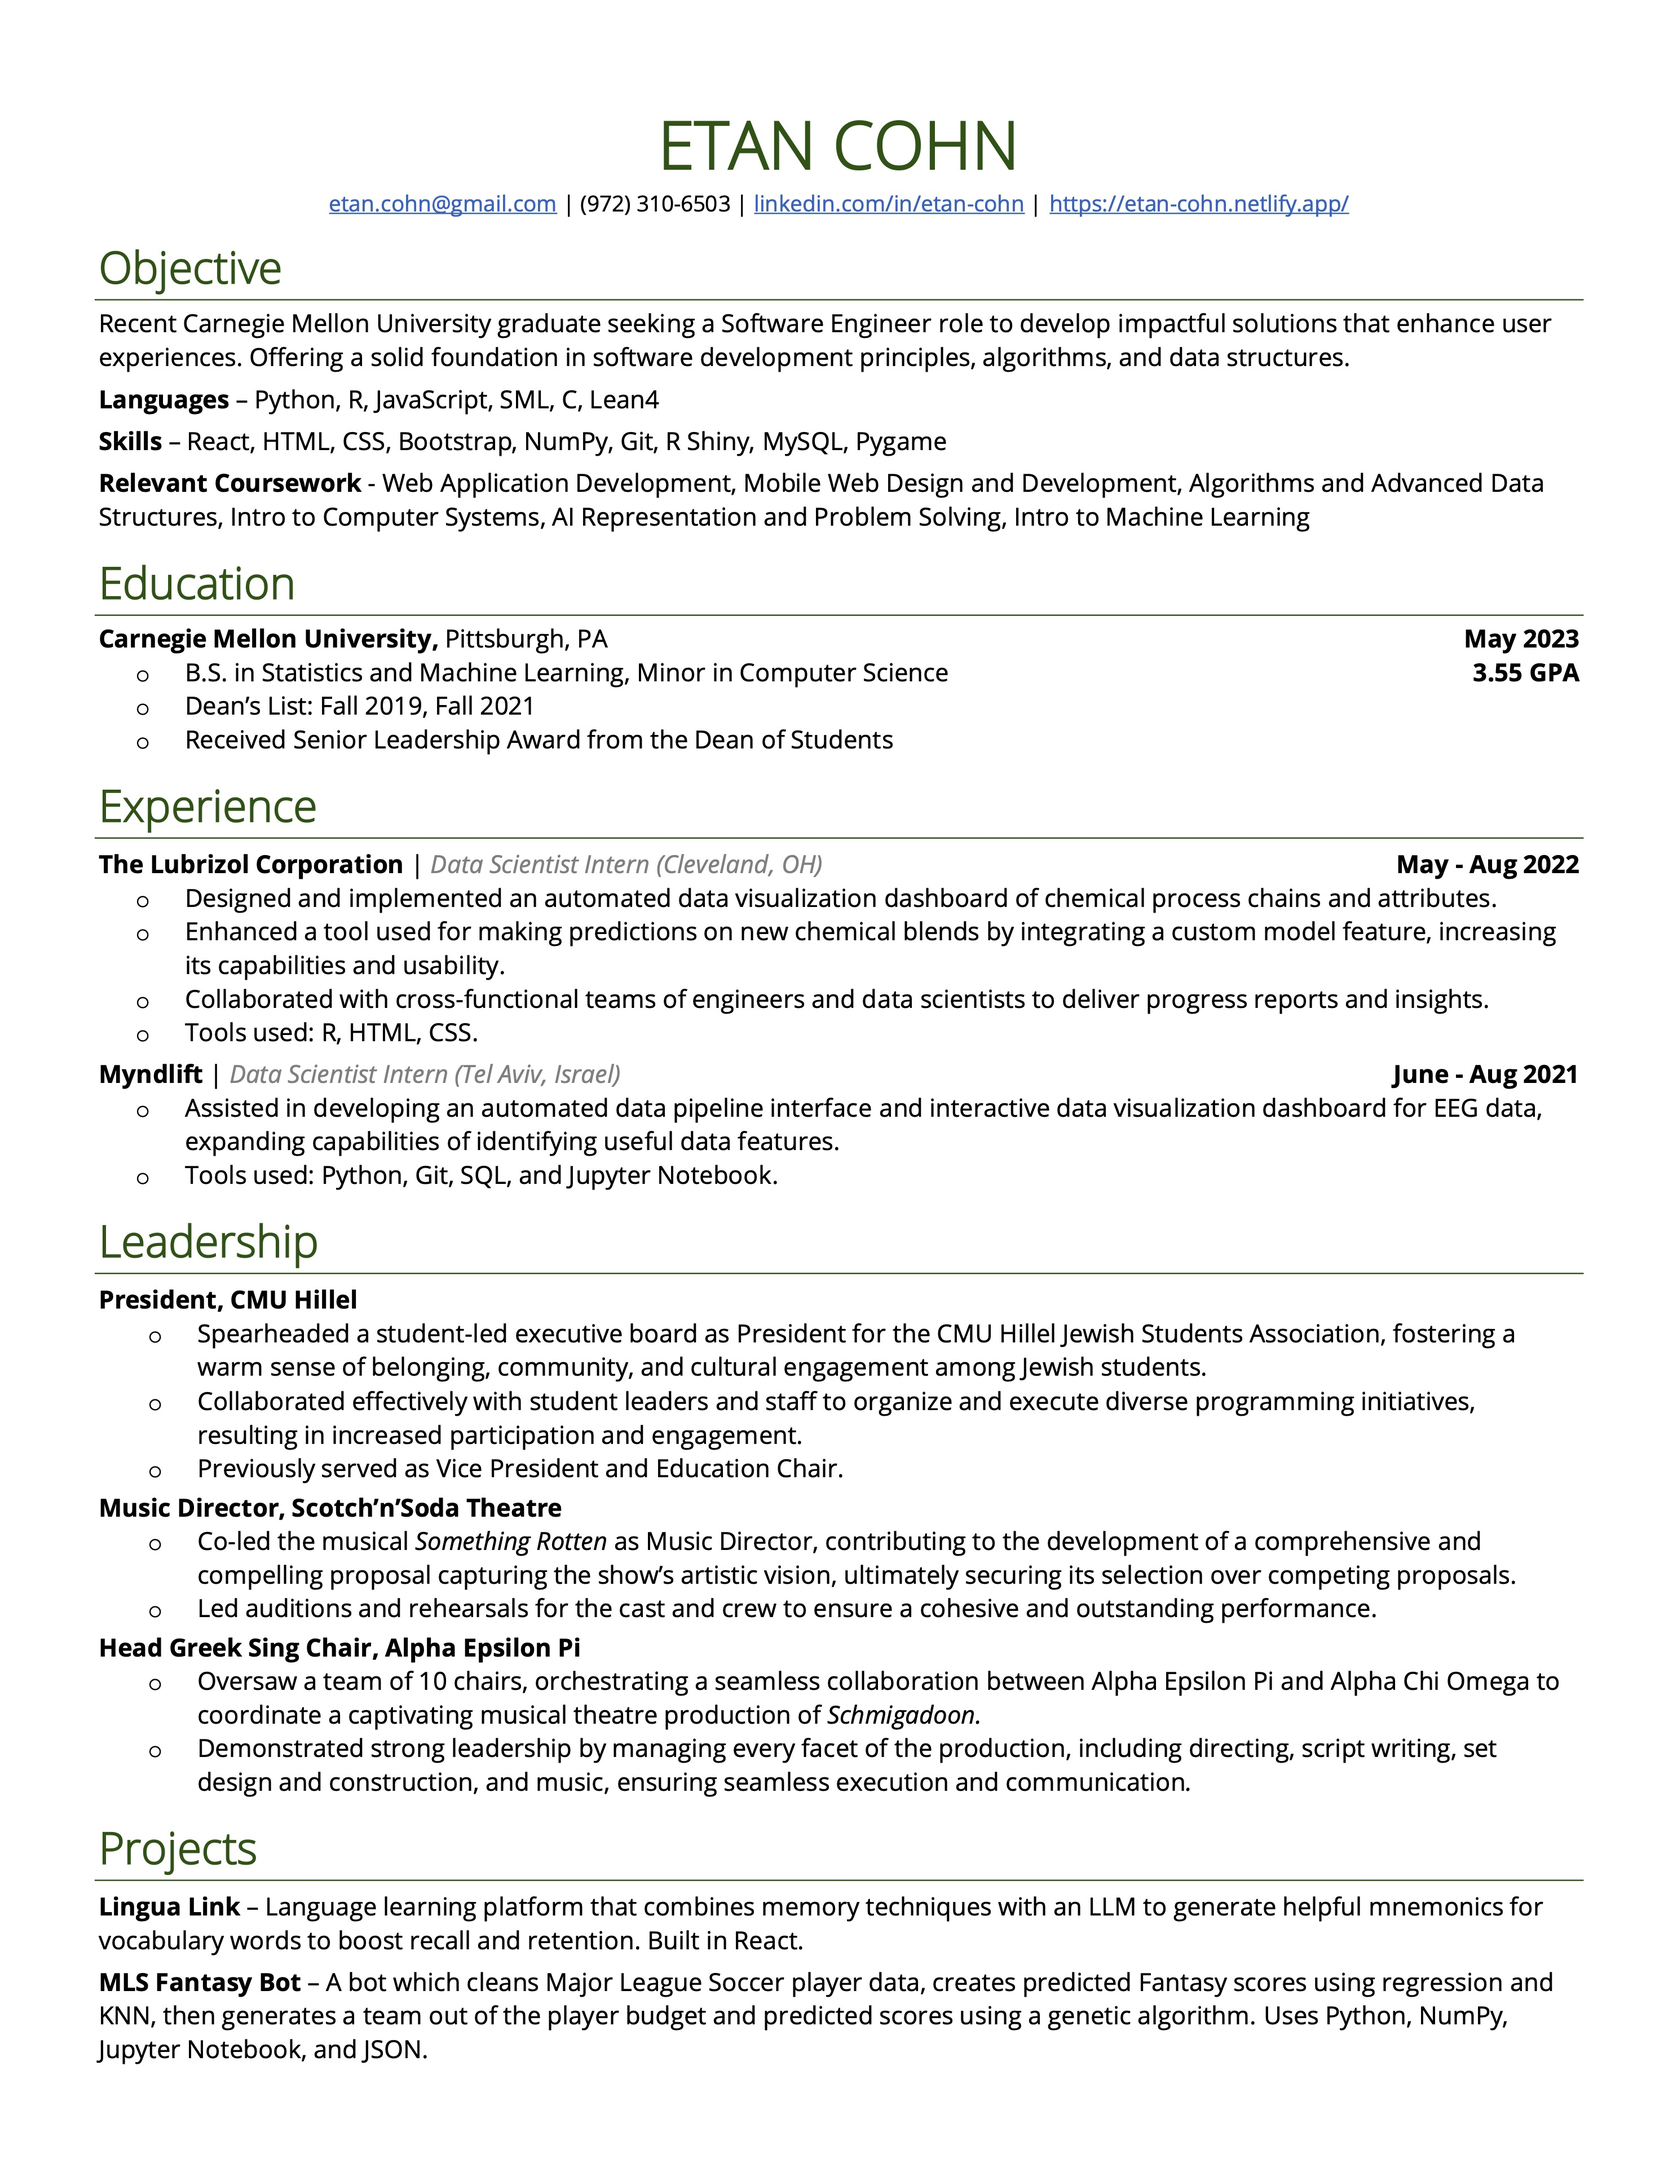
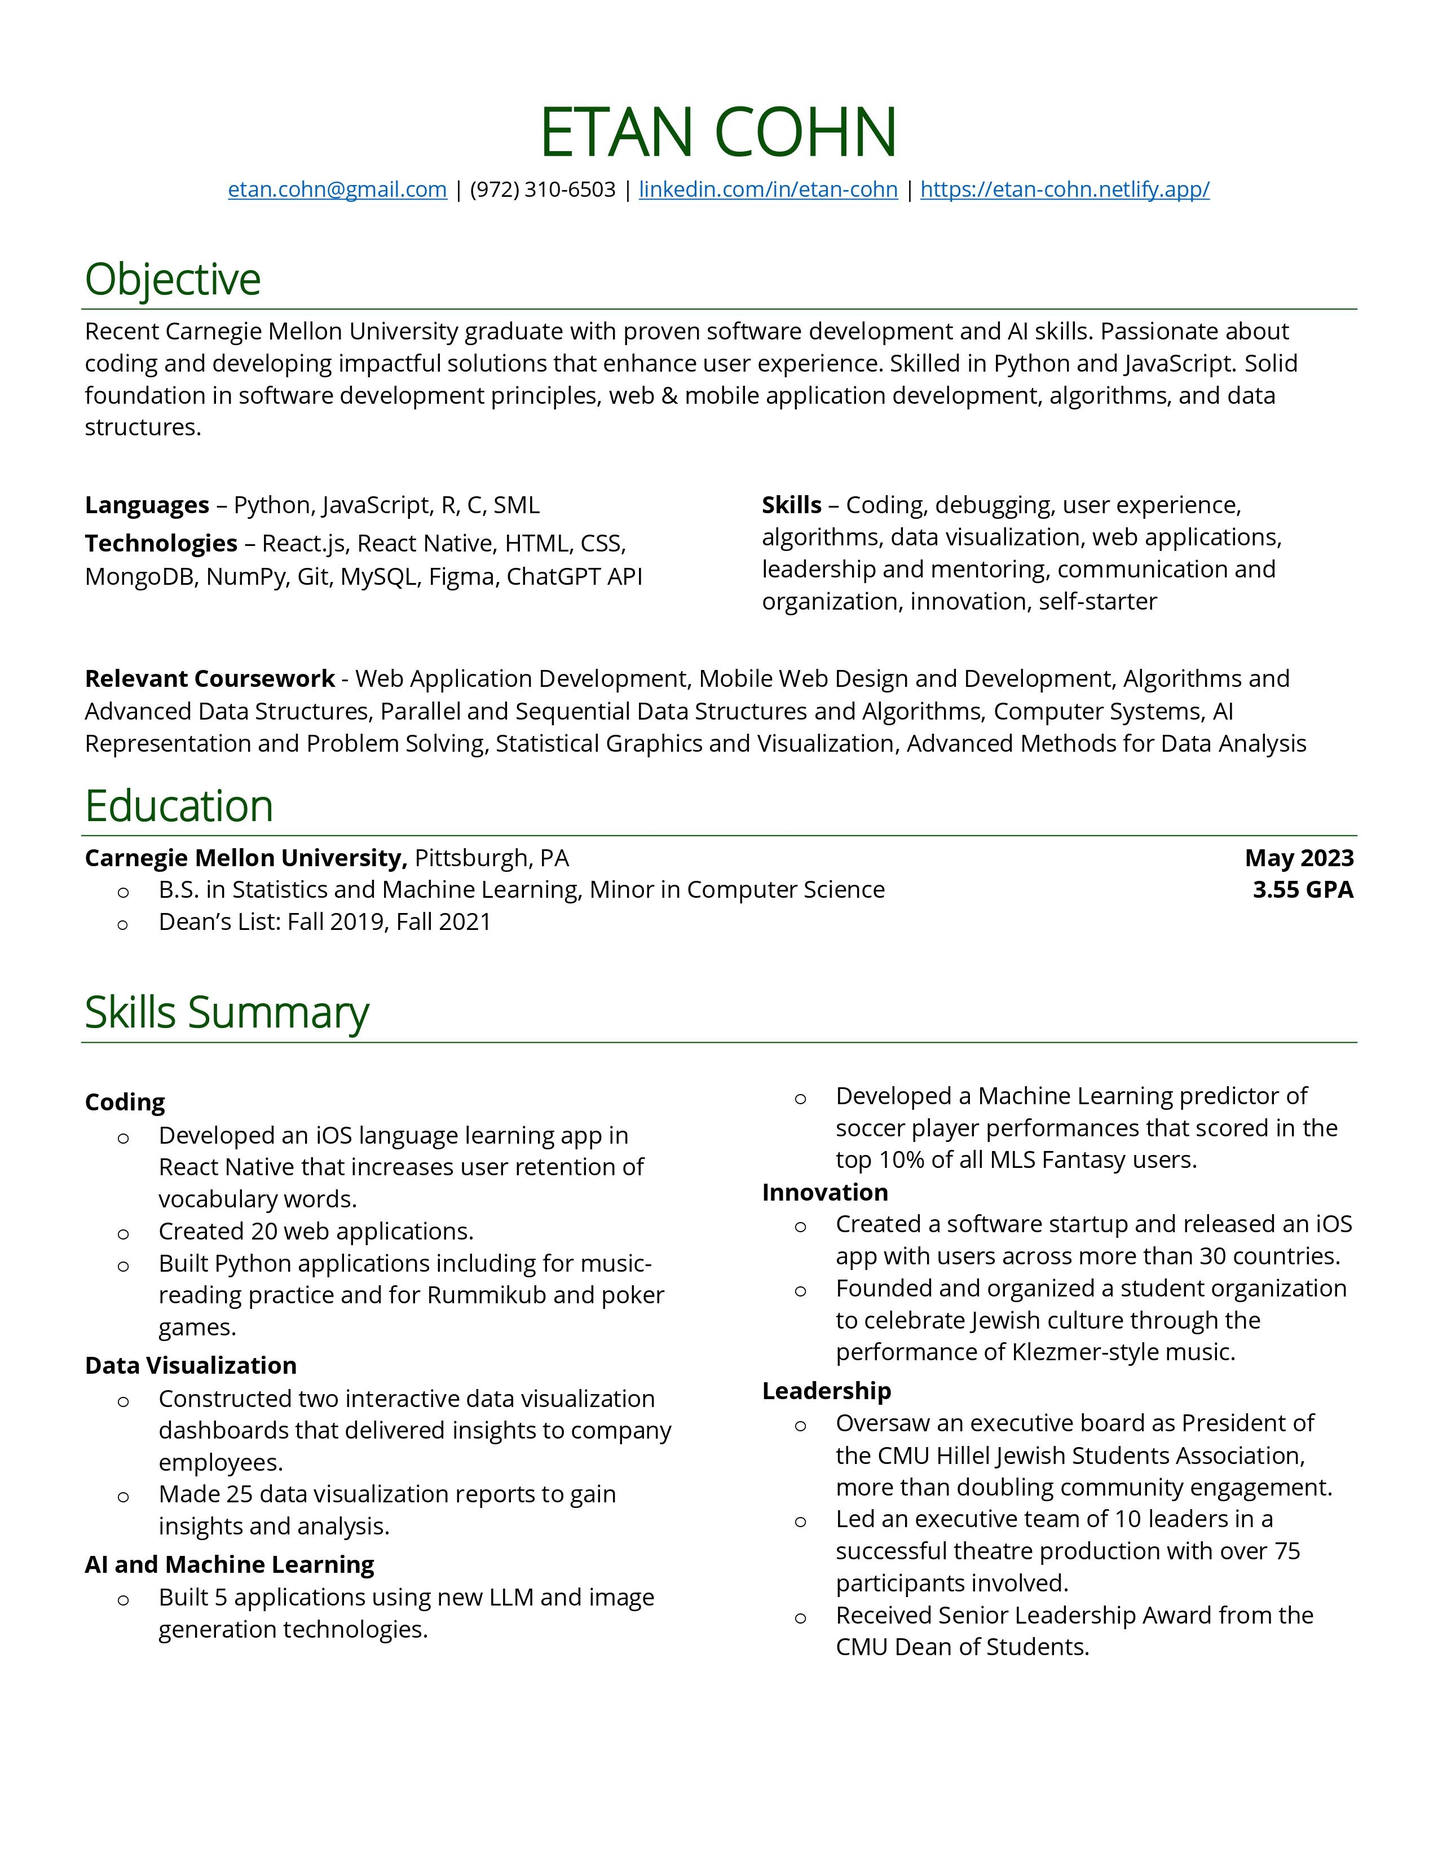
added music resume

Changed region(s): [[0.062, 0.0312, 0.9604, 0.9676]]

diff --git a/src/main.jsx b/src/main.jsx
@@ -11,6 +11,7 @@ import ProjectsPage from './pages/ProjectsPage/ProjectsPage.jsx'
 import SlangTranslator from './pages/Projects/SlangTranslator/SlangTranslator.jsx'
 import EmojiGenerator from './pages/Projects/EmojiGenerator/EmojiGenerator.jsx'
 import LinguaLink from './pages/Projects/LinguaLink/LinguaLink.jsx'
+import MusicResume from './pages/MusicResume/MusicResume.jsx'
 
 const router = createBrowserRouter([
   {
@@ -33,6 +34,10 @@ const router = createBrowserRouter([
    {
     path: "pages/software-resume",
     element: <SoftwareResume />
+   },
+   {
+    path: "pages/music-resume",
+    element: <MusicResume />
    },
    {
     path: "pages/projects-page",

diff --git a/src/pages/MusicResume/MusicResume.jsx b/src/pages/MusicResume/MusicResume.jsx
@@ -1,0 +1,21 @@
+import React from 'react'
+// import './SoftwareResume.css'
+import GreenNavbar from '../../components/GreenNavbar'
+import musicResumePhoto from '../../pics/music_resume.jpg'
+import Footer from '../../components/Footer'
+
+function MusicResume() {
+  return (
+    <div className="software-resume">
+        <GreenNavbar />
+        <div className="software-page-content">
+            <h1 className="software-resume-title">Music Resume</h1>
+            <img src={musicResumePhoto} alt="Etan's music resume" 
+                className="resume-img"/>
+        </div>
+        <Footer />
+    </div>
+  )
+}
+
+export default MusicResume

diff --git a/src/pages/Projects/LinguaLink/MainTool.jsx b/src/pages/Projects/LinguaLink/MainTool.jsx
@@ -165,9 +165,6 @@ async function makeGPTCallWrapper(vocabWord, setIsLoading, setCurrentWord,
 
 // GPT call to get the word mnemonic, mental image, etc.
 async function makeGPTCall(vocabWord, language, meaning="") {
-    // if (vocabWord.trim() === "") { return }
-    // setIsLoading(true)
-    // console.log(`vocabWord: ${vocabWord}`)
     // Query string for the API request
     const systemMsgContent = import.meta.env.VITE_SYSTEM_MESSAGE_CONTENT
     const example1Prompt = import.meta.env.VITE_EXAMPLE_1_PROMPT

diff --git a/src/pages/Home/components/MainContent.jsx b/src/pages/Home/components/MainContent.jsx
@@ -68,7 +68,7 @@ export default function MainContent() {
             {/* Resumes */}
             <div className="resume-btns">
                 <DarkGreenButton text="Software Resume" width="10rem" url="pages/software-resume" />
-                <DarkGreenButton text="Music Resume" width="10rem" />
+                <DarkGreenButton text="Music Resume" width="10rem" url="pages/music-resume" />
             </div>
 
             {/* Line Separation */}

diff --git a/src/pages/Projects/LinguaLink/GenerationText.jsx b/src/pages/Projects/LinguaLink/GenerationText.jsx
@@ -2,6 +2,7 @@ import React from 'react'
 
 // generates text, one letter at a time. slowness effects how quickly the text gets generated
 function GenerationText( { text="", slowness, triggerGeneration, onCompletion, triggerBlank, numHistoryClicks } ) {
+  console.log("GEN TEXT")
     const [content, setContent] = React.useState('')
 
     // set the content immediately to the word when a history item gets clicked

diff --git a/src/pages/Projects/LinguaLink/LinguaLink.jsx b/src/pages/Projects/LinguaLink/LinguaLink.jsx
@@ -9,7 +9,7 @@ import InfoModal from './InfoModal'
 import PhoneHistory from './PhoneHistory'
 import LLSidebar from './LLSidebar'
 import Languages from './Languages'
-import main_logo from './pics/main_logo.png'
+// import main_logo from './pics/main_logo.png'
 
 
 function LinguaLink() {

diff --git a/src/pages/Projects/LinguaLink/LinguaGenerateRandom.jsx b/src/pages/Projects/LinguaLink/LinguaGenerateRandom.jsx
@@ -22,7 +22,7 @@ function shuffleArray(array) {
       [array[i], array[j]] = [array[j], array[i]];
     }
     return array;
-  }
+}
 
 async function generateRandomWordsGPT(language) {
     console.log("generating words...")

diff --git a/src/pages/Projects/LinguaLink/InfoModal.jsx b/src/pages/Projects/LinguaLink/InfoModal.jsx
@@ -1,3 +1,4 @@
+/* eslint-disable react/prop-types */
 import React from 'react'
 import './InfoModal.css'
 import Button from 'react-bootstrap/Button';
